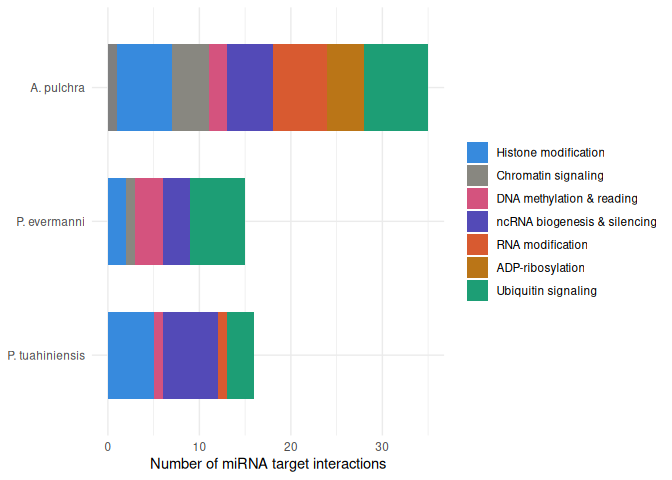
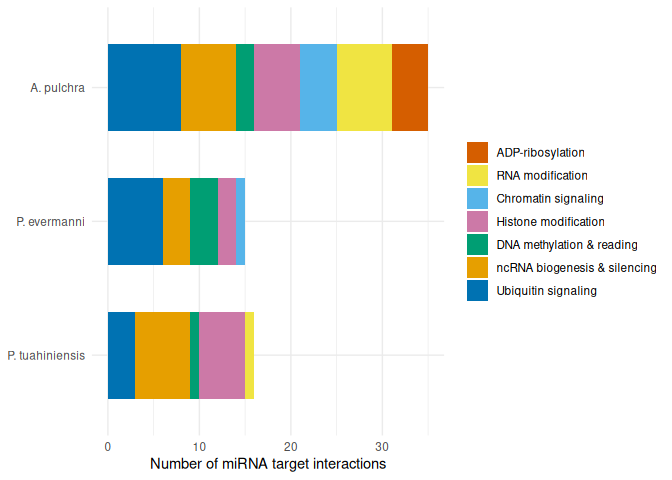
shift plot colors

diff --git a/M-multi-species/code/12-miRNA-epimachinery.md b/M-multi-species/code/12-miRNA-epimachinery.md
@@ -665,44 +665,6 @@ Generally, the protein machinery that are putatively targeted by our
 coral miRNAs is extremely diverse, covering all major “branches” of
 epigenetic regulation:
 
-Counts per category
-
-| Category                     | Apul | Peve | Ptuh | Total |
-|------------------------------|------|------|------|-------|
-| Histone modification         | 5    | 3    | 4    | 12    |
-| Chromatin signaling          | 4    | 1    | 1    | 6     |
-| DNA methylation & reading    | 2    | 0    | 0    | 2     |
-| ncRNA biogenesis & silencing | 6    | 5    | 7    | 18    |
-| RNA modification             | 6    | 0    | 1    | 7     |
-| ADP-ribosylation             | 4    | 0    | 0    | 4     |
-| Ubiquitin signaling          | 8    | 6    | 3    | 17    |
-| Total                        | 35   | 15   | 16   | 66    |
-
-**Cross-species top-level patterns**
-
-Apul covers all seven categories; Peve covers four; Ptuh covers five.
-Category breadth correlates roughly with absolute interaction count, but
-the shape of each species’ profile is qualitatively different, not just
-a scaled version of the others.
-
-Apul is the most evenly distributed, with no single category exceeding
-25% of the species’ total and meaningful representation across
-post-translational (ubiquitin, ADP-ribosylation), RNA-level (RNA
-modification, ncRNA), and chromatin-level (histone, DNA methylation)
-machinery. Peve is concentrated in two categories — ubiquitin signaling
-(40%) and ncRNA biogenesis (33%) together account for ~73% of all hits.
-Peve has zero RNA-modification, ADP-ribosylation, and DNA-methylation
-hits.
-
-Ptuh is ncRNA-dominated, with ncRNA biogenesis & silencing alone
-accounting for 44% of hits — the highest fractional concentration in any
-single category across any species.
-
-The input miRNA pool size still differs across species (caveat repeated
-from earlier turns: more miRNAs called → more potential targets), so
-absolute differences are partly a sampling effect. The relative
-proportions within species are the stronger comparison.
-
 ### Plot
 
 ``` r
@@ -716,95 +678,108 @@ ptuh_results_spec$species <- "P. tuahiniensis"
 
 all_data <- bind_rows(apul_results_spec, peve_results_spec, ptuh_results_spec)
 
-# function to classify genes into broad "type" of regulation
 classify_gene <- function(gene_str) {
-  gene <- toupper(gene_str)
-  # Histone modification (methylation, acetylation, deacetylation, phosphorylation)
-  histone_mod <- c("KDM3", "KDM6", "KMT5", "KMT2", "SETD8", "RIOX1", "KAT6", "KAT14", "KAT2", "HDAC", "SIRT7", "PRMT7", "PKN1", "HSPBAP1", "COPS6")
-  # DNA methylation & reading
-  dna_meth <- c("DNMT1", "TET3", "MBD1", "MBD2", "MBD3", "PRDM14", "MCM3AP")
-  # ADP-ribosylation
-  adprib <- c("PARP", "TNKS", "TIPARP", "ARH1", "ADPRH")
-  # Ubiquitin signaling
-  ubiquitin <- c("USP", "PSMD14", "BAP1", "UBE2D", "UBE3A", "UBE4A", "CUL4", "DDB1", "UBR2", "RNF8", "BRCA1", "VCPIP1", "JOSD")
-  # RNA modification (epitranscriptomics)
-  rna_mod <- c("TRMT1", "TRMT61", "ALKBH3", "PUS7L", "DUS1L", "HNRNPA2B1", "HNRNPA1", "ADAR", "RBMX")
-  # ncRNA biogenesis & silencing
-  ncrna <- c("AGO1", "AGO2", "TNRC6", "LIN28", "KHSRP", "SRRT", "RBBP4", "INTS", "SMARCA", "SMG1", "EXOSC", "EDC4", "DIS3L", "CNOT11", "EWSR1", "FUS(?!E)", "PAN2", "RDRP", "STAG1", "STAG2", "MTREX", "ZFC3H1")
-  # Chromatin signaling
-  signaling <- c("MAP3K12", "MAP2K1", "CHUK", "PPP1CB", "PPP1R7")
+  if (is.na(gene_str) || gene_str == "") return("Unclassified")
+  # Split on ";" to handle multi-gene annotations, strip transcript
+  # suffixes (-201, -202, ..., or em-dash variants), and uppercase.
+  symbols <- strsplit(gene_str, "\\s*;\\s*")[[1]]
+  symbols <- sub("[-\u2014\u2013].*$", "", symbols)   # hyphen / em-dash / en-dash
+  symbols <- toupper(trimws(symbols))
+  symbols <- symbols[nzchar(symbols)]
 
-  categories <- list(
-    "Histone modification" = histone_mod,
-    "Chromatin signaling" = signaling,
-    "DNA methylation & reading" = dna_meth,
-    "ncRNA biogenesis & silencing" = ncrna,
-    "RNA modification" = rna_mod,
-    "ADP-ribosylation" = adprib,
-    "Ubiquitin signaling" = ubiquitin
+  #   prefix   : symbol starts with one of these (catches family members)
+  #   exact    : symbol matches one of these exactly
+  cats <- list(
+    "ADP-ribosylation" = list(
+      prefix = c("PARP", "TNKS", "TARG", "MACROD", "OARD", "ADPRH", "ARH", "TIPARP"),
+      exact  = c("PARG", "ARTD1")),
+    "DNA methylation & reading" = list(
+      prefix = c("DNMT", "TET", "MBD", "UHRF", "MECP"),
+      exact  = c("TRDMT1", "MCM3AP", "PRDM14")),
+    "RNA modification" = list(
+      prefix = c("METTL", "YTHDF", "YTHDC", "ALKBH", "WTAP", "VIRMA", "ZC3H13", 
+                 "IGF2BP", "NSUN", "DKC", "TRMT", "PUS", "NAT10", "ADAR", "APOBEC", 
+                 "DUS", "HNRNPC", "HNRNPA2B1", "HNRNPA1"),
+      exact  = c("FTO", "RBM15", "RBM15B", "PCIF1", "BUD23", "WDR4",
+                 "RBMX")),
+    "ncRNA biogenesis & silencing" = list(
+      prefix = c("AGO", "TNRC6", "DICER", "DROSHA", "DGCR8", "PIWI", "EXPORTIN", 
+                 "TARBP", "PRKRA", "LIN28", "KHSRP", "ZCCHC", "DIS3", "INTS", "EXOSC", 
+                 "PAN2", "PAN3", "DDX5", "DDX17", "DDX6", "EDC", "DCP", "XRN", "CNOT", 
+                 "UPF", "SMG", "TUT", "MOV10", "FMR", "PUM", "STAU", "NCBP", "PHAX", 
+                 "RBM7"),
+      exact  = c("RDRP", "MTREX", "SKIV2L2", "MTR4", "ZFC3H1", "SRRT", "ARS2", "XPO5", 
+                 "XPO1", "CRM1", "RAN", "EWSR1", "FUS", "TARDBP", "HNRNPK", "PARN", 
+                 "PABPC1", "PAPD5", "TRIM25", "DZIP3", "MEX3B", "NONO", "SFPQ", "PSPC1", 
+                 "YBX1", "HSPA8", "HSP90AA1", "HSP90AB1", "PQBP1")),
+    "Histone modification" = list(
+      prefix = c("KMT", "KDM", "SETD", "EZH", "SUV", "EHMT", "MLL", "ASH1", "DOT1", 
+                 "JMJD", "HDAC", "SIRT", "KAT", "PRMT", "CARM", "NSD", "WHSC", "SMYD", 
+                 "CDYL", "RIOX", "MINA", "NO66"),
+      exact  = c("CREBBP", "EP300", "HAT1", "ELP3", "PHF8", "PHF2", "JARID2", "PKN1", 
+                 "HSPBAP1")),
+    "Ubiquitin signaling" = list(
+      prefix = c("USP", "UBE", "UBR", "UBA", "UCHL", "UCH", "RNF", "TRIM", "HUWE", 
+                 "HERC", "MARCH", "RBX", "CUL", "FBX", "SKP", "SOCS", "OTU", "UBQLN", 
+                 "PSMD", "JOSD", "DDB", "MIB"),
+      exact  = c("VCPIP1", "BAP1", "ATXN3", "COPS6", "COPS5", "JAMM", "PARK2", 
+                 "PARK7", "ZRANB1")),
+    "Chromatin signaling" = list(
+      # NOTE: this bin is signaling kinases/phosphatases that act on
+      # chromatin substrates, NOT chromatin-remodeling complexes.
+      prefix = c("MAP3K", "MAP2K", "MAPK"),
+      exact  = c("CHUK", "IKBKB", "IKBKG", "PPP1CB", "PPP1CA", "PPP1CC", "PPP1R7", 
+                 "PPP2CA", "AURKB", "MSK1", "MSK2", "RPS6KA4", "RPS6KA5")
+    )
   )
 
-  matched <- c()
-  for (cat_name in names(categories)) {
-    for (kw in categories[[cat_name]]) {
-      if (grepl(kw, gene, perl = TRUE)) {
-        matched <- c(matched, cat_name)
-        break
-      }
+  for (cat in names(cats)) {
+    pats <- cats[[cat]]
+    for (s in symbols) {
+      if (s %in% pats$exact) return(cat)
+      if (any(startsWith(s, pats$prefix))) return(cat)
     }
   }
-  if (length(matched) == 0) {
-    return("Unclassified")
-  }
-  # return the first matched category
-  return(matched[1])
+  return("Unclassified")
 }
 
-# classify targets
-all_data <- all_data %>% rowwise() %>% mutate(category = classify_gene(gene)) %>% ungroup()
 
-# summarize
-category_counts <- all_data %>% count(species, category, name = "n_targets")
+all_data <- all_data %>%
+  mutate(category = vapply(gene, classify_gene, character(1)))
 
-# Set factor levels
-cat_order <- c("Histone modification",
+cat_order <- c("ADP-ribosylation",
+               "RNA modification",
                "Chromatin signaling",
+               "Histone modification",
                "DNA methylation & reading",
                "ncRNA biogenesis & silencing",
-               "RNA modification",
-               "ADP-ribosylation",
                "Ubiquitin signaling")
-
 species_order <- c("A. pulchra", "P. evermanni", "P. tuahiniensis")
 
-category_counts <- category_counts %>%
-  mutate(category = factor(category, levels = rev(cat_order)),
-         species  = factor(species, levels = rev(species_order))
-         )
+category_counts <- all_data %>%
+  count(species, category, name = "n_targets") %>%
+  # Fill in zero rows so absent categories show up explicitly
+  complete(species = species_order,
+           category = cat_order,
+           fill = list(n_targets = 0)) %>%
+  filter(category %in% cat_order) %>%   # drop any "Unclassified" from the plot
+  mutate(category = factor(category, levels = cat_order),
+         species  = factor(species,  levels = rev(species_order)))
 
-# set colors
-cat_colors <- c(
-  "Histone modification" = "#378ADD",
-  "Chromatin signaling" = "#888780",
-  "DNA methylation & reading" = "#D4537E",
-  "ncRNA biogenesis & silencing" = "#534AB7",
-  "RNA modification" = "#D85A30",
-  "ADP-ribosylation" = "#BA7517",
-  "Ubiquitin signaling" = "#1D9E75"
-)
 
-# plot!
-p <- ggplot(category_counts, aes(x = n_targets, y = species, fill = category)) +
+cat_colors <- c("ADP-ribosylation"             = "#D55E00",  # vermillion
+                "RNA modification"             = "#F0E442",  # yellow
+                "Chromatin signaling"          = "#56B4E9",  # sky blue
+                "Histone modification"         = "#CC79A7",  # reddish purple
+                "DNA methylation & reading"    = "#009E73",  # bluish green
+                "ncRNA biogenesis & silencing" = "#E69F00",  # orange
+                "Ubiquitin signaling"          = "#0072B2")  # blue
+
+p <- ggplot(category_counts,
+            aes(x = n_targets, y = species, fill = category)) +
   geom_bar(stat = "identity", position = "stack", width = 0.65) +
-  scale_fill_manual(
-    values = cat_colors,
-    breaks = cat_order,
-    name   = NULL
-  ) +
-  labs(
-    x = "Number of miRNA target interactions",
-    y = NULL
-  ) +
+  scale_fill_manual(values = cat_colors, breaks = cat_order, name = NULL) +
+  labs(x = "Number of miRNA target interactions", y = NULL) +
   theme_minimal()
 
 p
